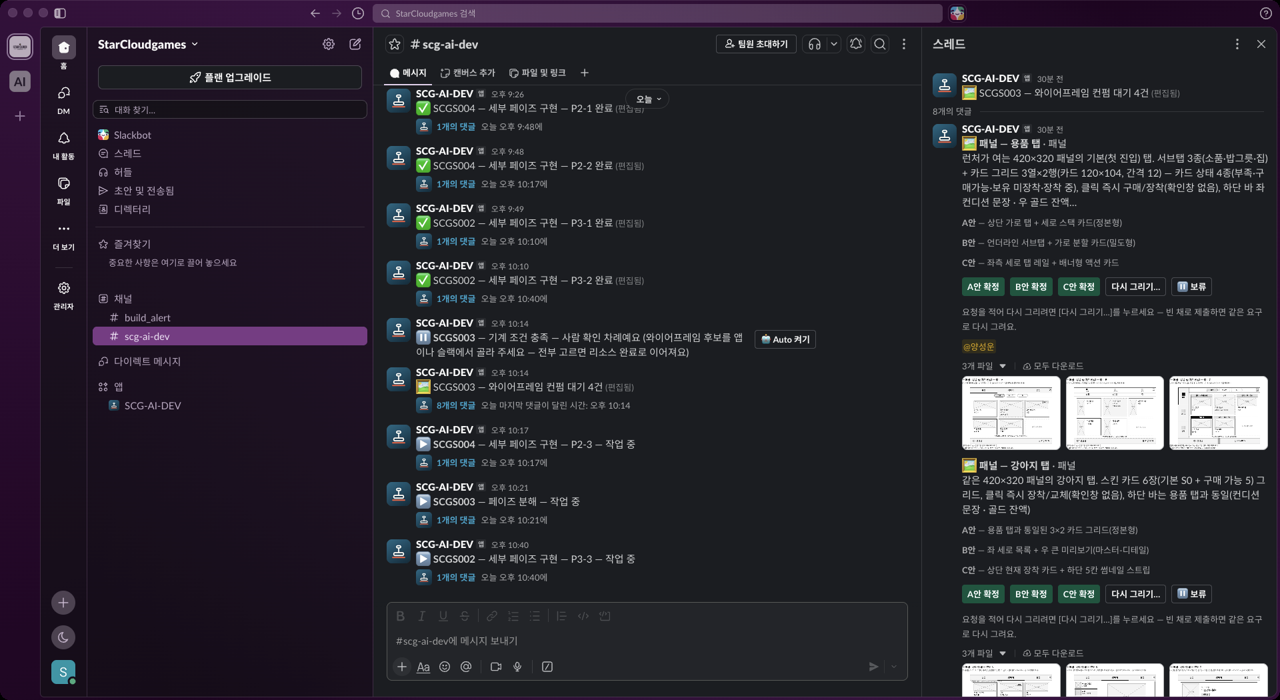
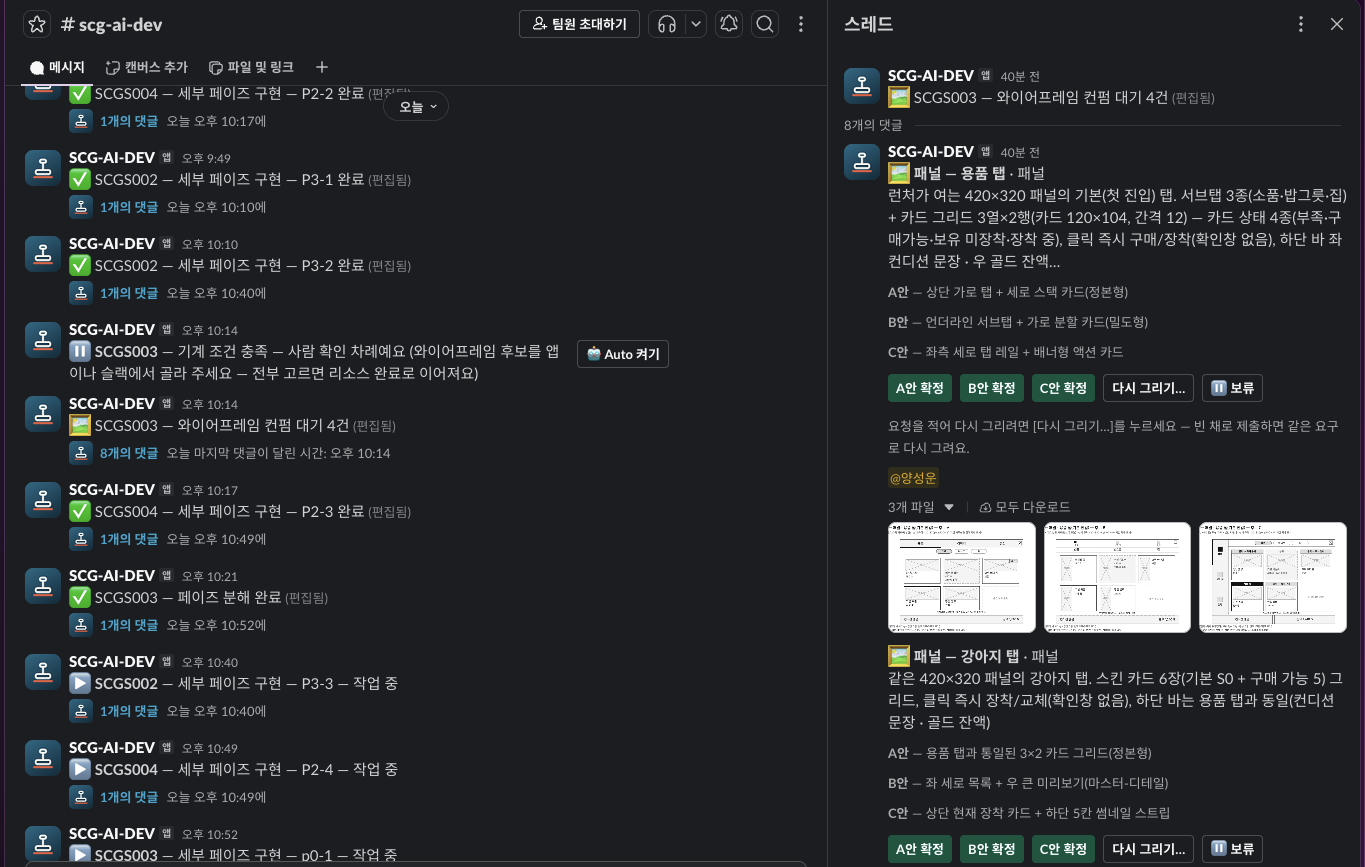
모달 닫기 3종과 버튼 고정, 슬랙 샷 교체
배경 클릭이 안 먹던 문제
- flex 리팩터링 때 .project-modal 이 화면 전체를 덮게 되면서, 검은 여백을 눌러도
  뒤에 있는 .project-overlay 가 아니라 모달 컨테이너가 이벤트를 먹었다
- 컨테이너 자신이 타깃일 때만 닫는 핸들러를 달았다. 내용 안 클릭은 자식이라 안 걸린다

닫기 버튼이 스크롤에 딸려 올라가던 문제
- 버튼이 스크롤 컨테이너 안에 있어 내용과 같이 흘렀다
- 상자(.project-modal-content)와 스크롤 영역(.modal-scroll)을 분리하고
  버튼을 상자 쪽에 고정했다

슬랙 전체화면 샷을 사용자가 찍은 것으로 교체

검증
- C19 추가: 배경 클릭·닫기 버튼·Esc 세 길이 전부 닫는지 각각 확인
- C20 추가: 모달 내용을 끝까지 스크롤해도 닫기 버튼 좌표가 안 변하는지 확인
- 세 폭 전부 통과 (1400~2500px 스크롤해도 제자리)

diff --git a/index.html b/index.html
@@ -18,18 +18,20 @@
     <div class="project-overlay" id="projectOverlay"></div>
     <div class="project-modal" id="projectModal">
         <div class="project-modal-content">
-            <div class="modal-thumb">
-                <button class="modal-close">&times;</button>
-                <img src="" alt="">
-            </div>
-            <div class="modal-info">
-                <h3></h3>
-                <p></p>
-                <div class="tags"></div>
-                <div class="store-links"></div>
-                <div class="modal-video" style="margin-top: 1.25rem;"></div>
-                <div class="modal-preview-carousel" style="margin-top: 1.25rem;"></div>
-                <div class="modal-details"></div>
+            <button class="modal-close" aria-label="닫기">&times;</button>
+            <div class="modal-scroll">
+                <div class="modal-thumb">
+                    <img src="" alt="">
+                </div>
+                <div class="modal-info">
+                    <h3></h3>
+                    <p></p>
+                    <div class="tags"></div>
+                    <div class="store-links"></div>
+                    <div class="modal-video" style="margin-top: 1.25rem;"></div>
+                    <div class="modal-preview-carousel" style="margin-top: 1.25rem;"></div>
+                    <div class="modal-details"></div>
+                </div>
             </div>
         </div>
     </div>

diff --git a/style.css b/style.css
@@ -1077,19 +1077,27 @@ footer {
     pointer-events: auto;
 }
 
+/* 상자는 안 움직이고 안쪽만 스크롤한다. 닫기 버튼이 내용과 같이 흘러가면 안 된다 */
 .project-modal-content {
+    position: relative;
+    display: flex;
+    flex-direction: column;
     width: 100%;
     max-width: 860px;
     max-height: 88svh;
-    overflow-y: auto;
-    /* 모달 끝까지 스크롤해도 뒤 페이지로 넘어가지 않게 */
-    overscroll-behavior: contain;
+    overflow: hidden;
     background: var(--color-surface);
     border: 1px solid var(--color-border-strong);
     border-radius: var(--radius-card);
     box-shadow: var(--shadow-modal);
     transform: translateY(10px);
     transition: transform var(--dur-base) var(--ease-out);
+}
+
+.modal-scroll {
+    overflow-y: auto;
+    /* 모달 끝까지 스크롤해도 뒤 페이지로 넘어가지 않게 */
+    overscroll-behavior: contain;
 }
 
 .project-modal.active .project-modal-content {
@@ -1117,6 +1125,7 @@ footer {
     position: absolute;
     top: var(--space-4);
     right: var(--space-4);
+    z-index: 3;
     width: 36px;
     height: 36px;
     border: 1px solid var(--color-border-strong);

diff --git a/script.js b/script.js
@@ -324,6 +324,11 @@ document.querySelectorAll('.source-card[data-project]').forEach(async card => {
 // 닫기
 modal.querySelector('.modal-close').addEventListener('click', closeModal);
 overlay.addEventListener('click', closeModal);
+// 모달 컨테이너가 화면 전체를 덮으므로 여백을 눌렀을 때도 닫아야 한다.
+// 내용 안을 누른 건 e.target 이 자식이라 걸리지 않는다
+modal.addEventListener('click', (e) => {
+    if (e.target === modal) closeModal();
+});
 document.addEventListener('keydown', (e) => {
     if (e.key === 'Escape') closeModal();
 });
